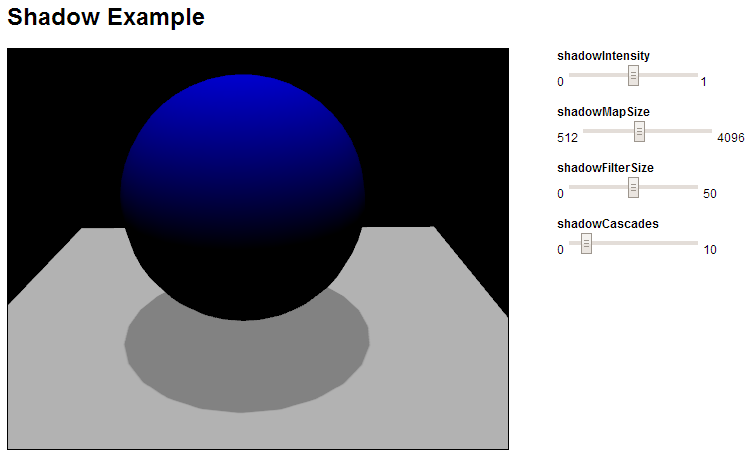
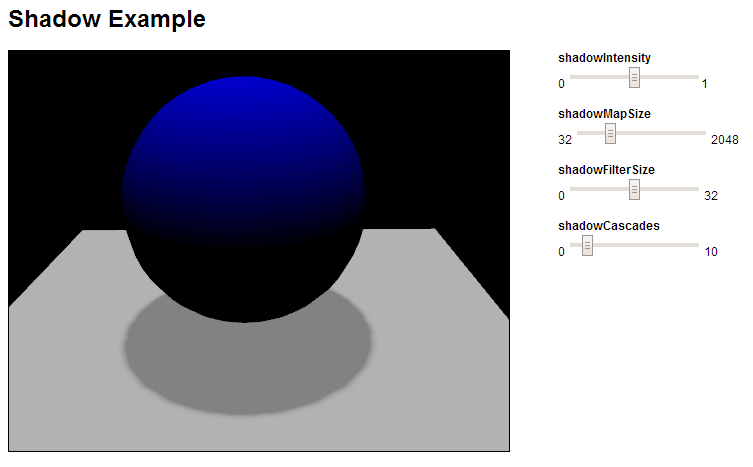
Improved BasicShadow Tutorial Example
Changed range of sliders to allow testing of more option values while
reducing the change of crashes on weak machines

diff --git a/doc/x3doc/base/tutorials/lighting/basicShadows/example.html b/doc/x3doc/base/tutorials/lighting/basicShadows/example.html
@@ -27,7 +27,7 @@ function changeSetting(field, value)
     <scene>
         <navigationInfo id="head" headlight='false' type='"EXAMINE"'></navigationInfo>
         <background  skyColor="0 0 0"></background>
-        <directionalLight id="directional" direction='0 -1 0' on ="TRUE" intensity='1.0' shadowIntensity='0.5'  shadowCascades="1" shadowFilterSize="25" shadowMapSize="2048">
+        <directionalLight id="directional" direction='0 -1 0' on ="TRUE" intensity='1.0' shadowIntensity='0.5'  shadowCascades="1" shadowFilterSize="16" shadowMapSize="512">
         </directionalLight>
 
         <Shape>
@@ -51,10 +51,10 @@ function changeSetting(field, value)
     0 <input type="range" id="sliderShadowIntesity" min="0.0" max="1.0" step="0.05" value="0.5" onchange="changeSetting('shadowIntensity', this.value)"/>1<br>
     <br>
     <b>shadowMapSize</b><br>
-    512 <input type="range" id="sliderShadowMapSize" min="512" max="4096" value="2048" onchange="changeSetting('shadowMapSize', this.value)" /> 4096<br>
+    32 <input type="range" id="sliderShadowMapSize" min="32" max="2048" value="512" onchange="changeSetting('shadowMapSize', this.value)" /> 2048<br>
     <br>
     <b>shadowFilterSize</b><br>
-    0 <input type="range" id="sliderShadowFilterSize" min="0" max="50" value="25" onchange="changeSetting('shadowFilterSize', this.value)" /> 50<br>
+    0 <input type="range" id="sliderShadowFilterSize" min="0" max="32" value="16" onchange="changeSetting('shadowFilterSize', this.value)" /> 32<br>
     <br>
     <b>shadowCascades</b><br>
     0 <input type="range" id="sliderShadowCascades" min="0" max="10" value="1" onchange="changeSetting('shadowCascades', this.value)" /> 10<br>
